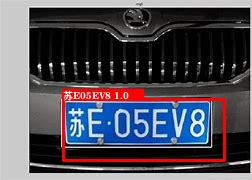
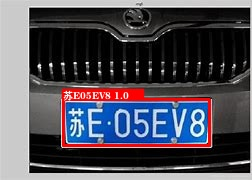
fix bug

Changed region(s): [[0.2222, 0.5278, 0.9167, 0.9167]]

diff --git a/hyperlpr_based/process_img.py b/hyperlpr_based/process_img.py
@@ -15,7 +15,7 @@ def drawRectBox(image, rect, addText, fontC, conf):
     """
     # 绘制车牌位置方框
     cv2.rectangle(image, (int(round(rect[0])), int(round(rect[1]))),
-                 (int(round(rect[2]) + 15), int(round(rect[3]) + 15)),
+                 (int(round(rect[2])), int(round(rect[3]))),
                  (0, 0, 255), 2)
     # 绘制字体背景框
     cv2.rectangle(image, (int(rect[0] - 1), int(rect[1]) - 10), (int(rect[0] + 80), int(rect[1])), (0, 0, 255), -1, cv2.LINE_AA)
